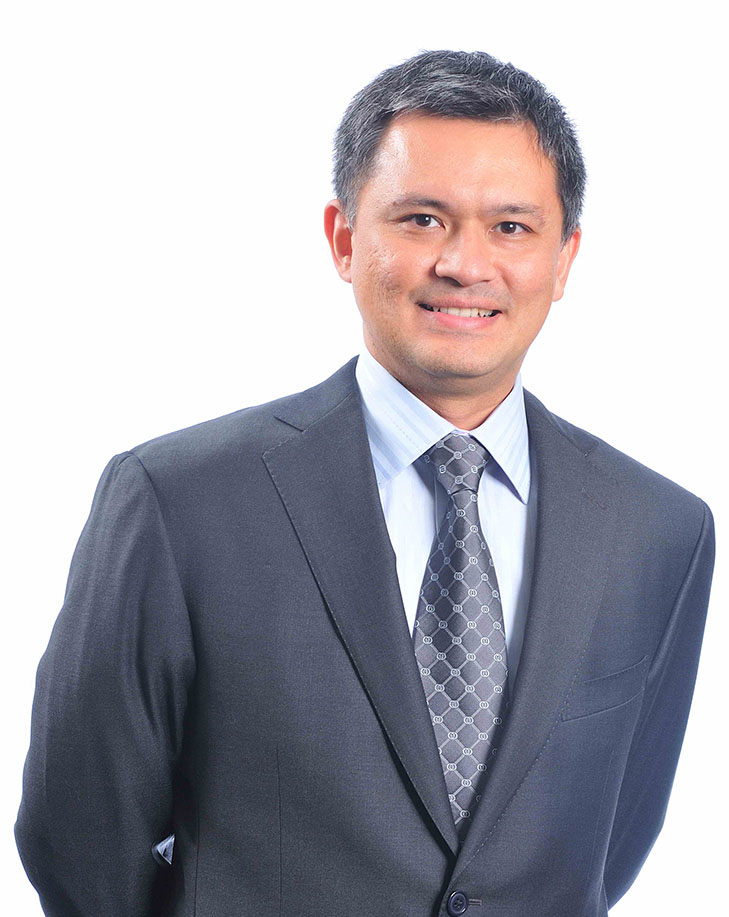
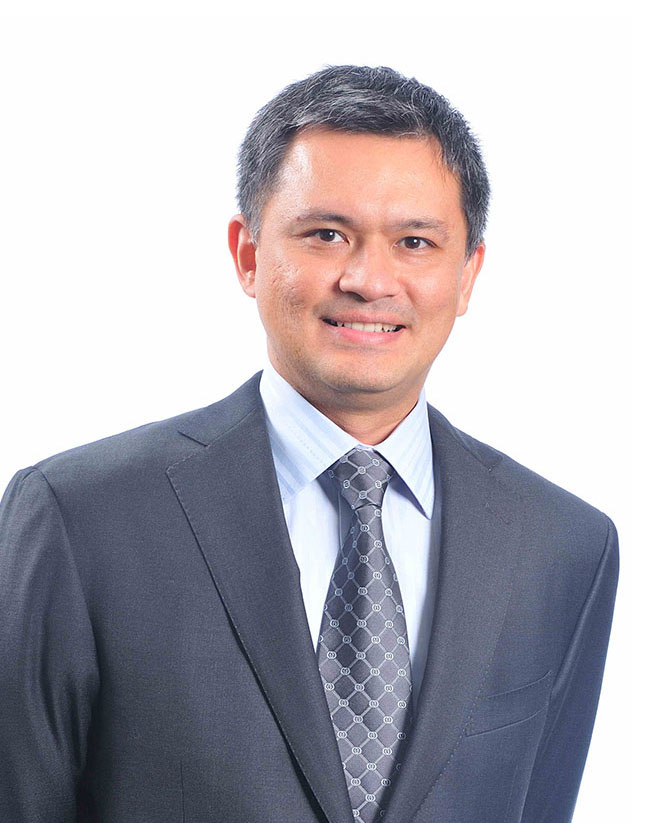
new tolaram file

diff --git a/assets/css/style.css b/assets/css/style.css
@@ -263,6 +263,7 @@ div.video_bg{
     }
     #about-overlay .col-md-5 img{
       position: absolute;
+      width: 100%;
     }
     #about-overlay .col-md-6 .text {
       position: absolute;
@@ -471,7 +472,7 @@ div.video_bg{
     }
 
     .csr .title{
-      max-width: 300px;
+      max-width: 500px;
       font-size: 24px;
       line-height: 40px;
       color: #FFF;
@@ -720,7 +721,7 @@ div.video_bg{
     border: 20px solid transparent;
     position: fixed;
     width: 100%;
-    height: 50%;
+    height: 40%;
     bottom: -100%;
     left: 0px;
     -ms-transition: bottom 1s; /* For Safari 3.1 to 6.0 */

diff --git a/about2.php b/about2.php
@@ -15,11 +15,11 @@
 			<div class="section aboutUs-section" id="section0">
 				<div class="intro">
 					<div class="col-md-6 col-sm-8 col-xs-11 pull-right box-content" style="padding-right:7%;padding-top:13%;">
-						<div class="about-content">
-							<h3 class="title" style="color:#000">ESTABLISHED IN 1948 IN MALANG, INDONESIA</h3>
-							<p class="content" style="color:#000">Tolaram Group is headquartered in Singapore with business interests currently in Asia, Africa and Europe. We trade with companies in over 75 countries. </p>
+						<div>
+							<h3 class="title" style="color:#FFF">ESTABLISHED IN 1948 IN MALANG, INDONESIA</h3>
+							<p class="content" style="color:#FFF">Tolaram Group is headquartered in Singapore with business interests currently in Asia, Africa and Europe. We trade with companies in over 75 countries. </p>
 							<br/>
-							<p class="content" style="color:#000">The Group has a diversified portfolio consisting of Consumer Goods, Infrastructure, Energy, Digital Services and other interests which include Distribution, Financial Services, Paper Products, Real Estate and Textiles.</p>
+							<p class="content" style="color:#FFF">The Group has a diversified portfolio consisting of Consumer Goods, Infrastructure, Energy, Digital Services and other interests which include Distribution, Financial Services, Paper Products, Real Estate and Textiles.</p>
 						</div>
 					</div>
 				</div>
@@ -249,7 +249,7 @@
 	
 	<style type="text/css">
 		#section0{
-			background-image: url(assets/img/about/about-page-bg.jpg);
+			background-image: url(assets/img/about/about-page-bg2.jpg);
 			background-size: cover;
 			background-position: 0 90%;
 		}

diff --git a/contact.php b/contact.php
@@ -74,7 +74,7 @@
 		<!-- Contact Form -->
 		<div class="fullContact">
 			<div class="row">
-				<div class="col-md-12" style="padding-bottom: 59px;">
+				<div class="col-md-12" style="padding-bottom: 59px;position: absolute; right: 0;padding-right: 0;">
 					  <button type="button" class="closeContact pull-right">close</button>
 				</div>
 			</div>
@@ -114,6 +114,9 @@
 			background-size: cover;
 		}
 		
+		html, body{
+			overflow:visible!important;
+		}
 
 		::-webkit-input-placeholder { /* WebKit browsers */
 		    color:    #FFF !important;
